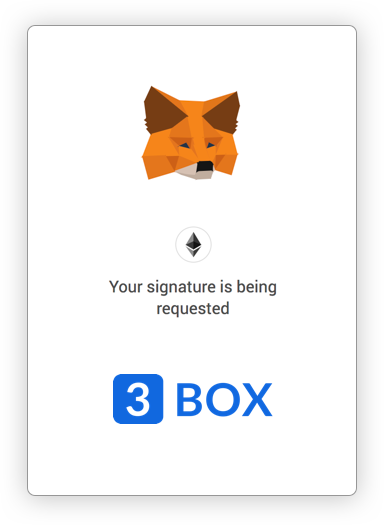
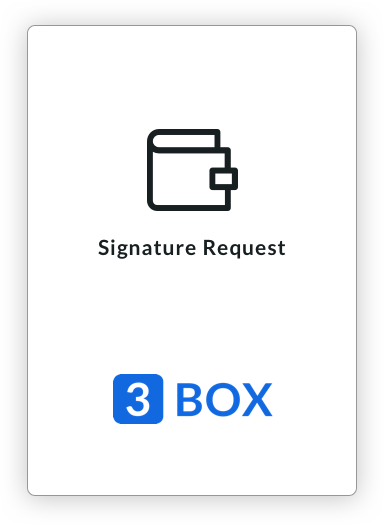
convert MM mentions to general w3

Changed region(s): [[0.25, 0.1524, 0.75, 0.4876], [0.2812, 0.5181, 0.7188, 0.6095]]

diff --git a/src/components/Modals.jsx b/src/components/Modals.jsx
@@ -50,7 +50,7 @@ export const SwitchedNetworksModal = ({
             </p>
             <p id="modal__switchBack">
               <b>
-                {`Switch back to ${prevNetwork} in MetaMask or continue on ${currentNetwork}`}
+                {`Switch back to ${prevNetwork} in your Web3 Wallet or continue on ${currentNetwork}`}
               </b>
             </p>
           </div>
@@ -91,8 +91,8 @@ export const LoggedOutModal = ({
             </h3>
 
             {isMobile
-              ? <p>Sign back in to your web3 wallet or exit 3Box</p>
-              : <p>Sign back in to your MetaMask wallet or exit 3Box</p>
+              ? <p>Sign back in to your Web3 wallet or exit 3Box</p>
+              : <p>Sign back in to your Web3 wallet or exit 3Box</p>
             }
           </div>
 
@@ -243,12 +243,12 @@ export const SwitchedAddressModal = ({
           {isMobile
             ? (
               <p>
-                {`Revert to the previous address ${prevAddress} in your web3 wallet or sign back in with the new address`}
+                {`Revert to the previous address ${prevAddress} in your Web3 wallet or sign back in with the new address`}
               </p>
             )
             : (
               <p>
-                {`Revert to the previous address ${prevAddress} in your MetaMask wallet or sign back in with the new address`}
+                {`Revert to the previous address ${prevAddress} in your Web3 wallet or sign back in with the new address`}
               </p>
             )
           }
@@ -274,7 +274,7 @@ SwitchedAddressModal.defaultProps = {
 
 // Landing Page Modals
 export const ProvideConsentModal = ({
-  handleConsentModal, isMobile,
+  handleConsentModal,
 }) => (
     <div className="modal__container modal--effect">
       <div className="modal">
@@ -282,10 +282,7 @@ export const ProvideConsentModal = ({
         <img src={Loading} alt="Loading" id="modal__loadingGraphic--access" />
         <div id="modal__copy__card">
           <h3>Log in to 3Box</h3>
-          {isMobile
-            ? <p>Approve the message in your web3 wallet to continue</p>
-            : <p>Approve the message in your MetaMask wallet to continue</p>
-          }
+          <p>Approve the message in your Web3 wallet to continue</p>
         </div>
 
         <button onClick={handleConsentModal} type="button" className="tertiaryButton">Close</button>
@@ -299,7 +296,7 @@ ProvideConsentModal.propTypes = {
 };
 
 export const ProvideAccessModal = ({
-  handleAccessModal, isMobile, directLogin,
+  handleAccessModal, directLogin,
 }) => (
     <div>
       <div className="modal__container modal--effect">
@@ -309,10 +306,7 @@ export const ProvideAccessModal = ({
 
           <div id="modal__copy__card">
             <h3>Share Your Account</h3>
-            {isMobile
-              ? <p>To allow 3Box to read your Ethereum address, make sure you are logged in to your Web3 wallet.</p>
-              : <p>To allow 3Box to read your Ethereum address, make sure you are logged in to MetaMask.</p>
-            }
+            <p>To allow 3Box to read your Ethereum address, make sure you are logged in to your Web3 wallet.</p>
           </div>
 
           {!directLogin
@@ -876,8 +870,8 @@ export const ErrorModal = ({ closeErrorModal, error }) => {
 
   const errorMsg = error.message;
   if (errorMsg) {
-    isMetaMaskSignError = errorMsg.substring(0, 65) === 'Error: MetaMask Message Signature: User denied message signature.';
-    isMetaMaskFromError = errorMsg.substring(0, 58) === 'Error: MetaMask Message Signature: from field is required.';
+    isMetaMaskSignError = errorMsg.substring(0, 65) === 'Web3 Wallet Signature Error: User denied message signature.';
+    isMetaMaskFromError = errorMsg.substring(0, 58) === 'Web3 Wallet Signature Error: from field is required.';
     isMozillaError = errorMsg.substring(0, 26) === 'value/</<@moz-extension://';
     errorString = errorMsg.substring(0, 200);
   }
@@ -899,7 +893,7 @@ export const ErrorModal = ({ closeErrorModal, error }) => {
               : <h3>Error</h3>}
 
             {(isMetaMaskSignError || isMozillaError)
-              ? <p>You must provide consent to 3Box in your web3 wallet (e.g. MetaMask) to sign in or create a profile, please try again</p>
+              ? <p>You must provide consent to 3Box in your Web3 wallet to sign in or create a profile, please try again</p>
               : (
                 <React.Fragment>
                   <p>{errorString}</p>
@@ -926,17 +920,14 @@ ErrorModal.defaultProps = {
   error: '',
 };
 
-export const MustConsentModal = ({ closeErrorModal, isMobile }) => (
+export const MustConsentModal = ({ closeErrorModal }) => (
   <div>
     <div className="modal__container modal--effect">
       <div className="modal">
         <img src={Consent} alt="Consent required" />
         <div id="modal__copy__card">
           <h3>Sign in to 3Box</h3>
-          {isMobile
-            ? <p>You must provide consent to 3Box in your web3 wallet to sign in or create a profile, please try again</p>
-            : <p>You must provide consent to 3Box in MetaMask to sign in or create a profile, please try again</p>
-          }
+          <p>You must provide consent to 3Box in your Web3 wallet to sign in or create a profile, please try again</p>
         </div>
         <button onClick={closeErrorModal} type="button" className="tertiaryButton">Close</button>
       </div>

diff --git a/src/App.jsx b/src/App.jsx
@@ -224,7 +224,7 @@ class App extends Component {
 
   handleSignInUp = async (chooseWallet, shouldSignOut, e) => {
     try {
-      e.stopPropagation();
+      if (e) e.stopPropagation();
       await this.props.checkMobileWeb3(); // eslint-disable-line
       await this.props.injectWeb3(null, chooseWallet, false, shouldSignOut); // eslint-disable-line
       await this.props.checkNetwork(); // eslint-disable-line
@@ -277,7 +277,7 @@ class App extends Component {
 
     const { pathname } = location;
     const normalizedPath = normalizeURL(pathname);
-    const mustConsentError = errorMessage && errorMessage.message && errorMessage.message.substring(0, 65) === 'Error: MetaMask Message Signature: User denied message signature.';
+    const mustConsentError = errorMessage && errorMessage.message && errorMessage.message.substring(0, 65) === 'Error: Web3 Wallet Message Signature: User denied message signature.';
     const landing = pathname === routes.LANDING ? 'landing' : '';
     const { userAgent: ua } = navigator;
     const isIOS = ua.includes('iPhone');

diff --git a/src/components/AppModals.jsx b/src/components/AppModals.jsx
@@ -120,7 +120,6 @@ class AppModals extends Component {
           <ProvideAccessModal
             handleAccessModal={handleAccessModal}
             directLogin={directLogin}
-            isMobile={isMobile}
             key="ProvideAccessModal"
           />
         )}
@@ -128,7 +127,6 @@ class AppModals extends Component {
         {provideConsent && (
           <ProvideConsentModal
             handleConsentModal={handleConsentModal}
-            isMobile={isMobile}
             key="ProvideConsentModal"
           />
         )}
@@ -169,7 +167,6 @@ class AppModals extends Component {
         {!!mustConsentError && (
           <MustConsentModal
             closeErrorModal={closeErrorModal}
-            isMobile={isMobile}
             key="MustConsentModal"
           />
         )}

diff --git a/src/state/actions/signin/pickWallet.js b/src/state/actions/signin/pickWallet.js
@@ -22,8 +22,6 @@ const pickWallet = async (directLogin, dispatch, shouldSignOut) => {
     type: 'USER_WEB3CONNECT',
     web3Connect,
   });
-  console.log('shouldSignOut', shouldSignOut);
-
   const web3Promise = new Promise((resolve, reject) => {
     web3Connect.on('connect', async (provider) => {
       try {

diff --git a/src/state/actions/signin/connectProviderToDapp.js b/src/state/actions/signin/connectProviderToDapp.js
@@ -14,7 +14,7 @@ const connectProviderToDapp = async (provider, directLogin, dispatch) => {
     } = Web3Connect;
     const {
       name,
-      logo
+      logo,
     } = getProviderInfo(provider);
     window.localStorage.setItem('defaultWallet', name); // eslint-disable-line no-undef
     

diff --git a/src/state/actions/signin/handleSignOut.js b/src/state/actions/signin/handleSignOut.js
@@ -11,7 +11,6 @@ const handleSignOut = () => async (dispatch) => {
   const {
     box,
   } = store.getState().myData;
-  console.log('insignout');
   if (isLoggedIn) {
     if (box) box.logout();
     dispatch({
